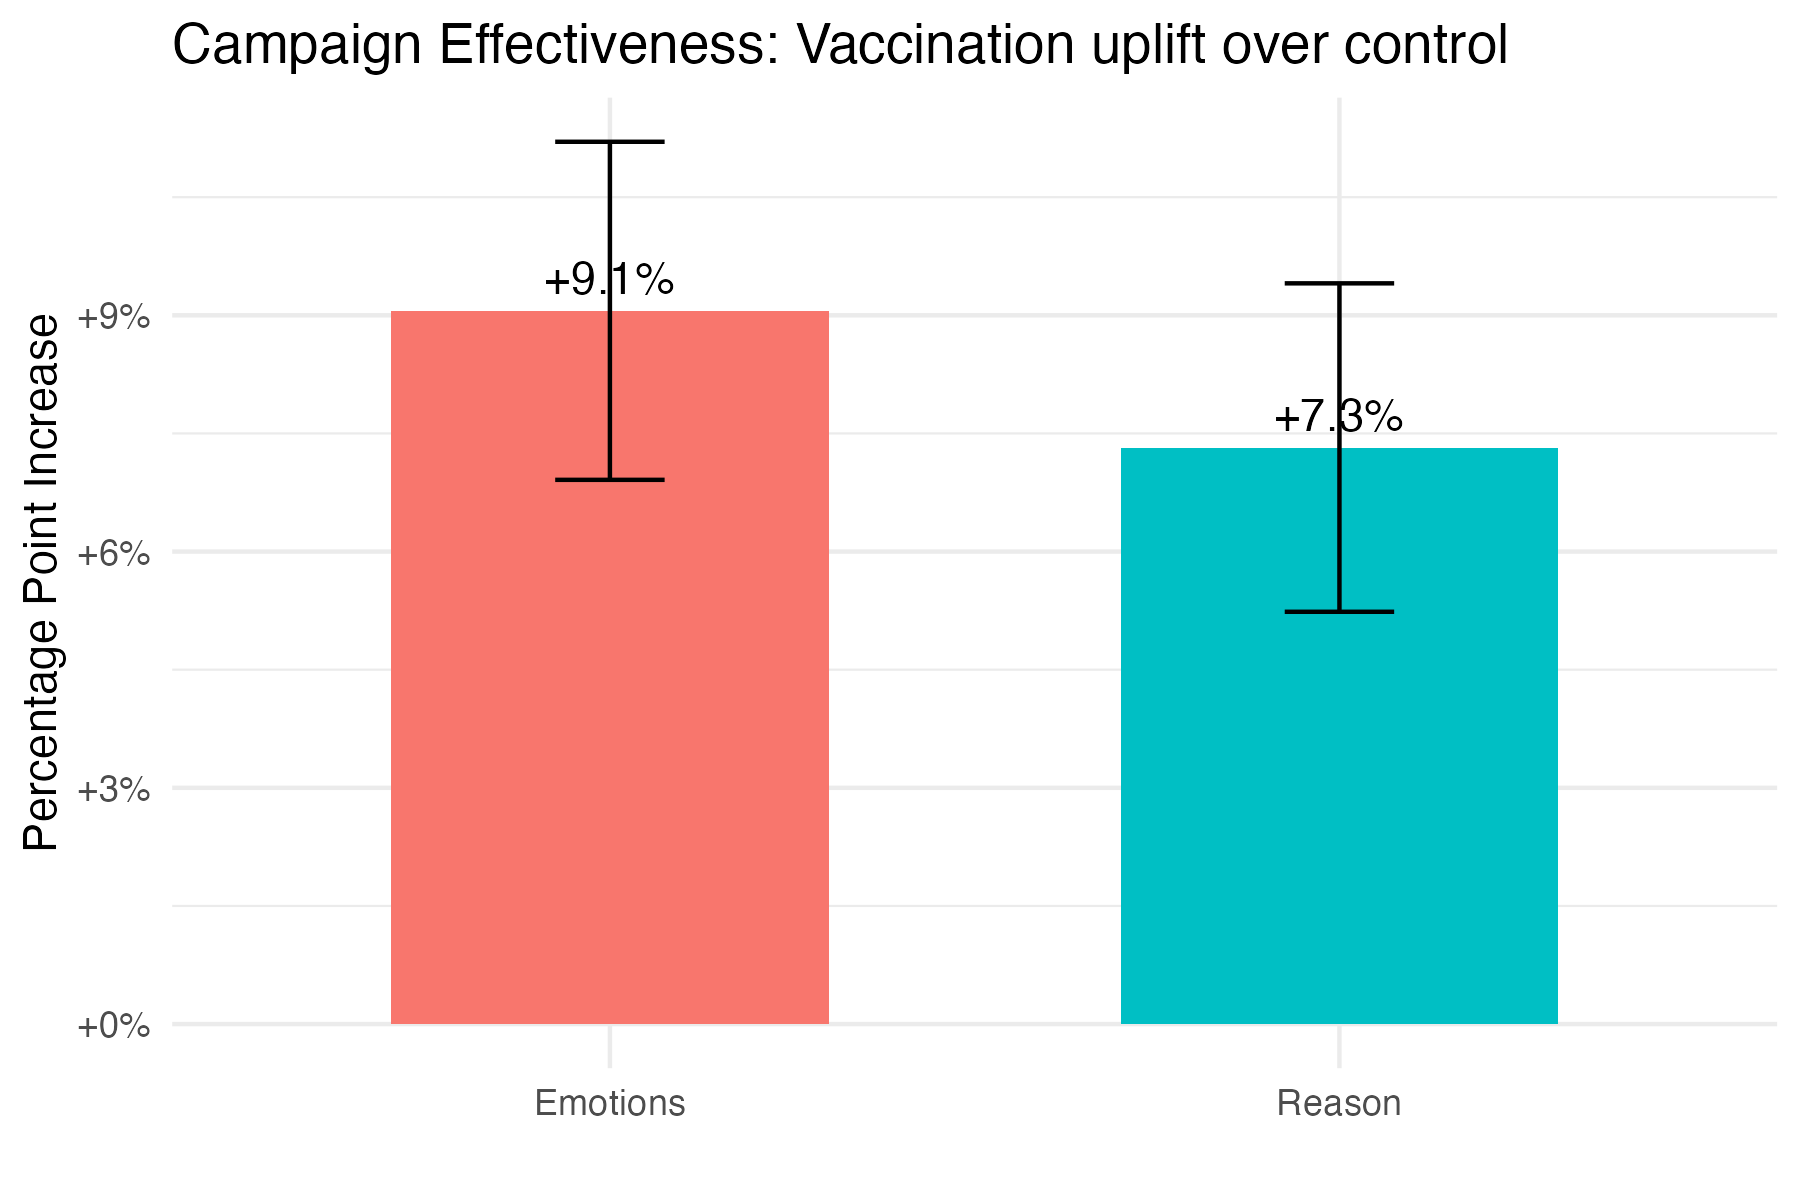
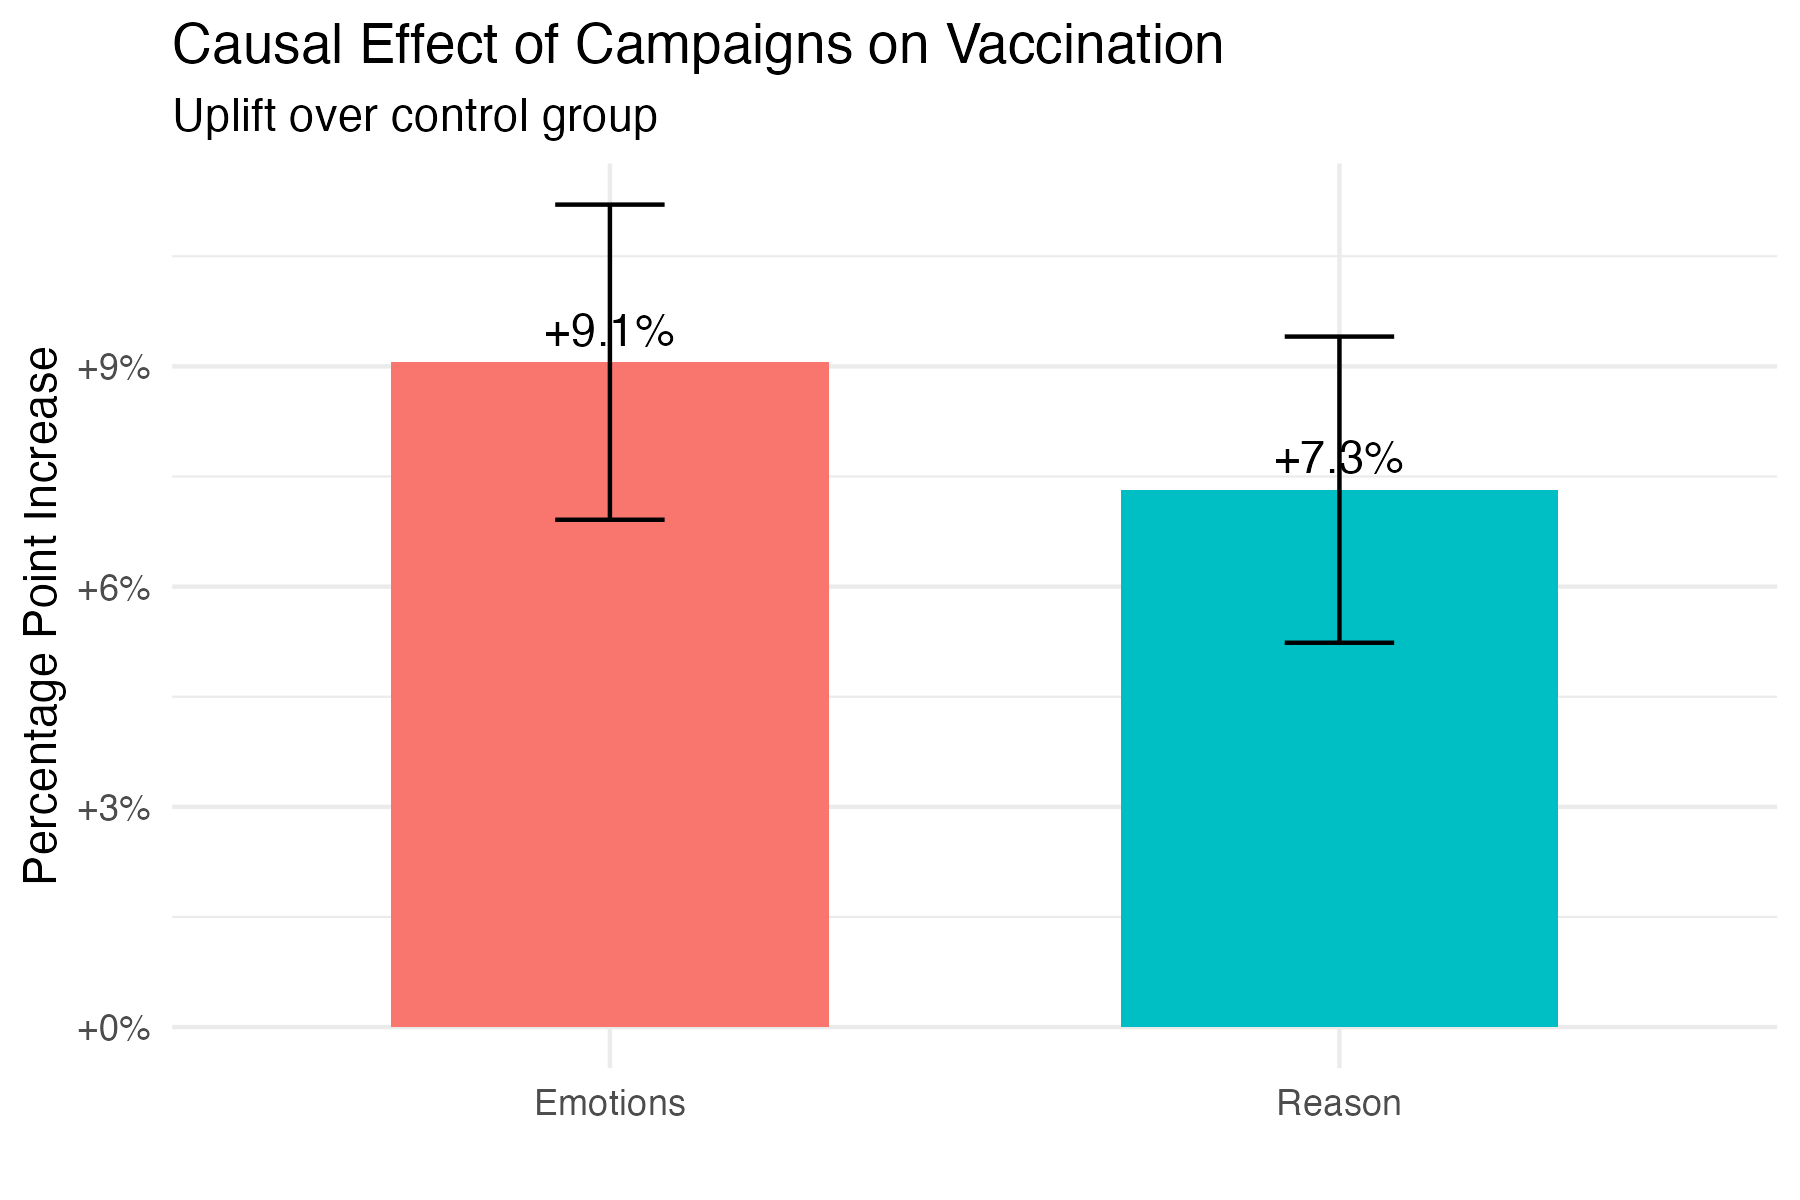
updated readme, and title change for one of the plots

diff --git a/README.md b/README.md
@@ -2,43 +2,45 @@
 
 Simulated field experiment to assess the effectiveness of different Facebook ad campaigns in increasing COVID-19 vaccine uptake
 
+
+
 ## How to Run the Pipeline
 
-### 1. First-Time Setup
+### First-Time Setup
 
 ```bash
 git clone https://github.com/sonamtg/Facebook-Ad-Vaccine-Uptake.git
 cd Facebook-Ad-Vaccine-Uptake
 ```
 
-### 2. Initialize the R environment to automatically install all dependencies
+### Initialize the R environment to automatically install all dependencies
 
 ```bash
 Rscript -e "renv::restore()"
 ```
 
-### 3. Run the Entire Pipeline
+### Run the Entire Pipeline
 Execute the master script to run all steps sequentially:
 
 ```bash
 Rscript 00_run.R
 ```
 
-### 4. Run Specific Steps
+### Run Specific Steps
 Edit `00_run.R` to toggle scripts on/off (set 1 = run, 0 = skip)
 
-**00_run.R**
+1. **00_run.R**
 - To run all the scripts
 - Input required and output produced by each script
 
 ### Overview of the logic and methodologies used
 
-**01_baseline_simulation.R** 
+2. **01_baseline_simulation.R** 
 
 #### Demographic Distributions
 
 - Unique IDs (unique_id)
-  - Sequential Uniue IDs starting at 135780 ensure each participant has a distinct identifier
+  - Sequential Unique IDs starting at 135780 ensure each participant has a distinct identifier
   
 - Survey Dates (baseline_date)
   - Uniform distribution across May 1 2021 to May 15, 2021
@@ -74,15 +76,17 @@ Reflects typical public health survey distributions
   - Fixed 18% probability
   - Independent of other factors
 
+#### Facebook Usage
+
 - Facebook Usage (fb_active)
   - Peak daily usage at 26-40 (37%)
   
-**02_treatment_assign.R** 
+3. **02_treatment_assign.R** 
 
 - Randomized Controlled Trial (RCT) using complete randomization using the randomizr package
 - Random assignment: 1/3 receive the first ad (reason), 1/3 the second ad (emotions), and 1/3 none (control group)
 
-**03_endline_simulation.R**
+4. **03_endline_simulation.R**
 
 - Follow-up Period (survey_gap)
   - 14-28 days using Poisson distribution
@@ -97,10 +101,12 @@ Reflects typical public health survey distributions
     
   - Final vaccination status using the binomial distribution function based on their calculated probability
   
-**04_merge_and_process.R**
+5. **04_merge_and_process.R**
 
 - Merge all the datasets together and summarization for figures and tables
 
-**05_gen_output.R**
+6. **05_gen_output.R**
 
 - Produce figures and tables
+
+- The `vaccination_uplift.png` plot shows that the Emotions campaign causally increased vaccination rates by 9.1 percentage points compared to the control group and the Reason campaign increased vaccinations by 7.3 percentage points compared to the control group after accounting for baseline (which includes random) characteristics.
